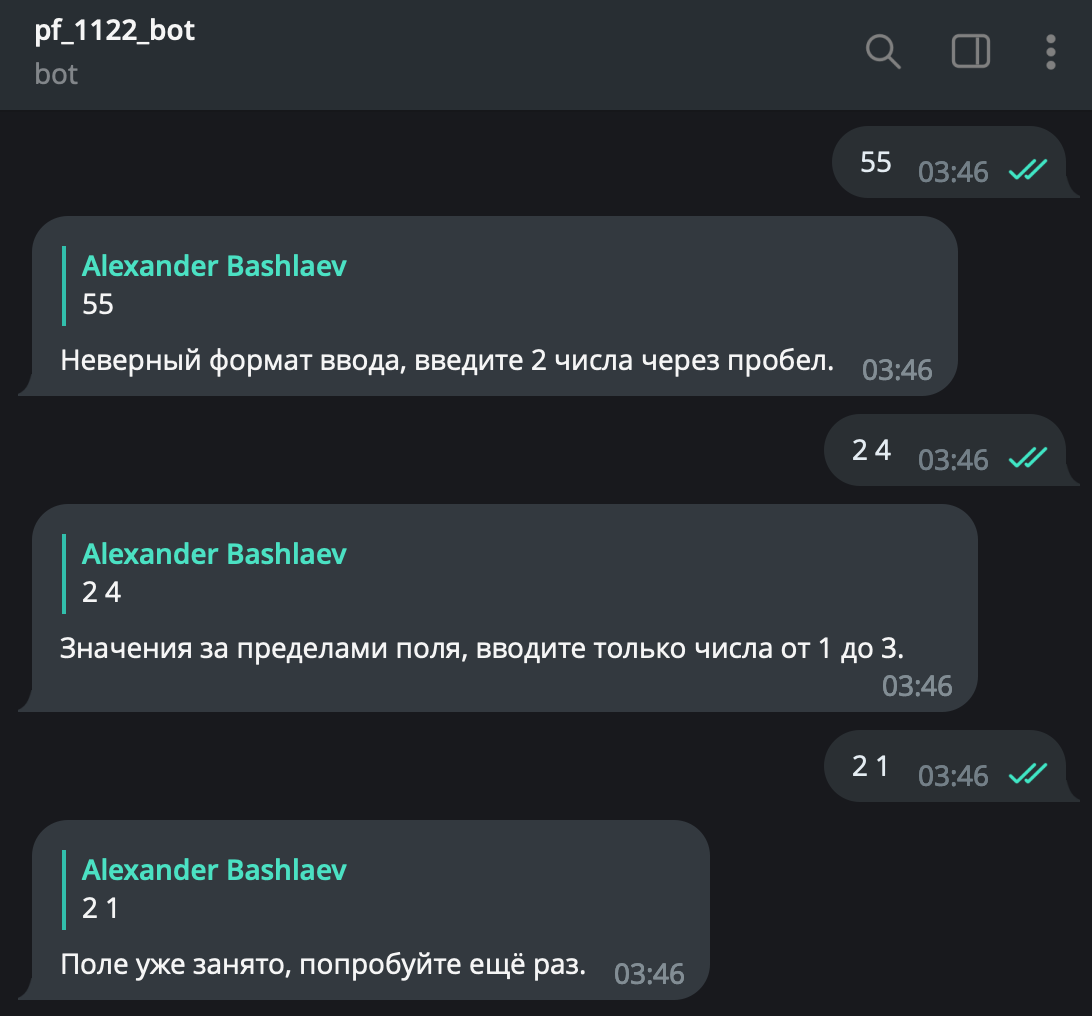
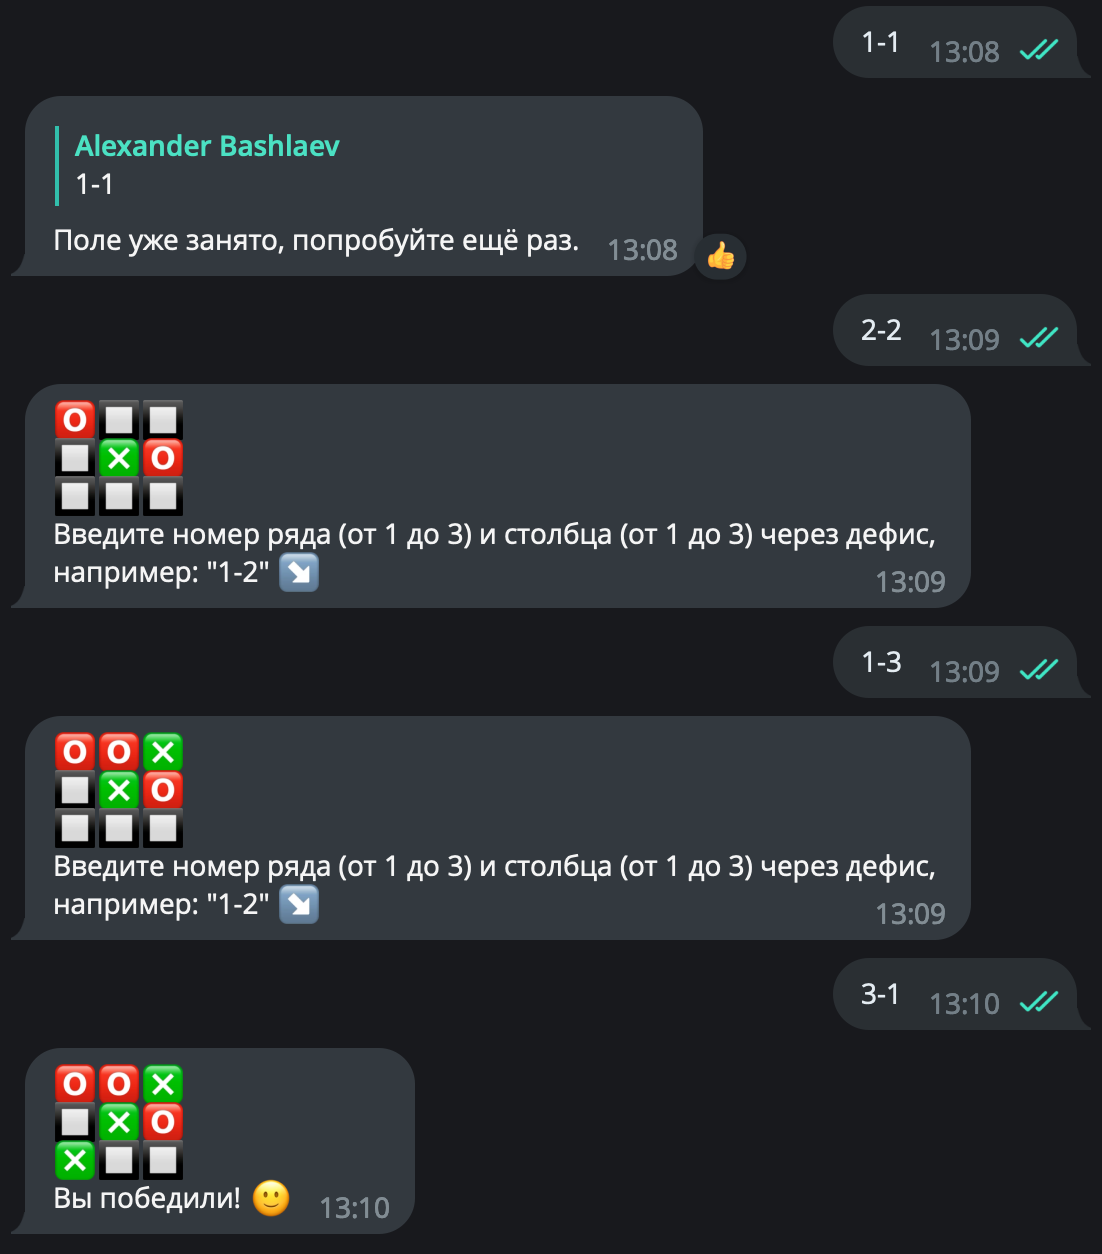
Change game separator

diff --git a/tg_bot.py b/tg_bot.py
@@ -60,7 +60,7 @@ def process_game(message):
         bot.send_message(message.chat.id, reply)
     else:
         reply = f'{show_game_field(NEW_GAME.buttons)}\n' \
-                f'Введите номер ряда (1-3) и столбца (1-3) через пробел {ARROW_SYMBOL}'
+                f'Введите номер ряда (от 1 до 3) и столбца (от 1 до 3) через дефис, например: "1-2" {ARROW_SYMBOL}'
         msg = bot.send_message(message.chat.id, reply)
         bot.register_next_step_handler(msg, process_next_move)
 
@@ -72,10 +72,10 @@ def process_next_move(message):
                 handler['function'](message)
                 return
 
-    move = message.text.split()
+    move = message.text.split('-')
 
     if len(move) != 2:
-        msg = bot.reply_to(message, 'Неверный формат ввода, введите 2 числа через пробел.')
+        msg = bot.reply_to(message, 'Неверный формат ввода, введите 2 числа через дефис.')
         bot.register_next_step_handler(msg, process_next_move)
         return
 

diff --git a/README.md b/README.md
@@ -9,4 +9,3 @@
 
 <img alt="game1.png" src="img/game1.png" width="800"/>
 <img alt="game2.png" src="img/game2.png" width="800"/>
-<img alt="game3.png" src="img/game3.png" width="800"/>
